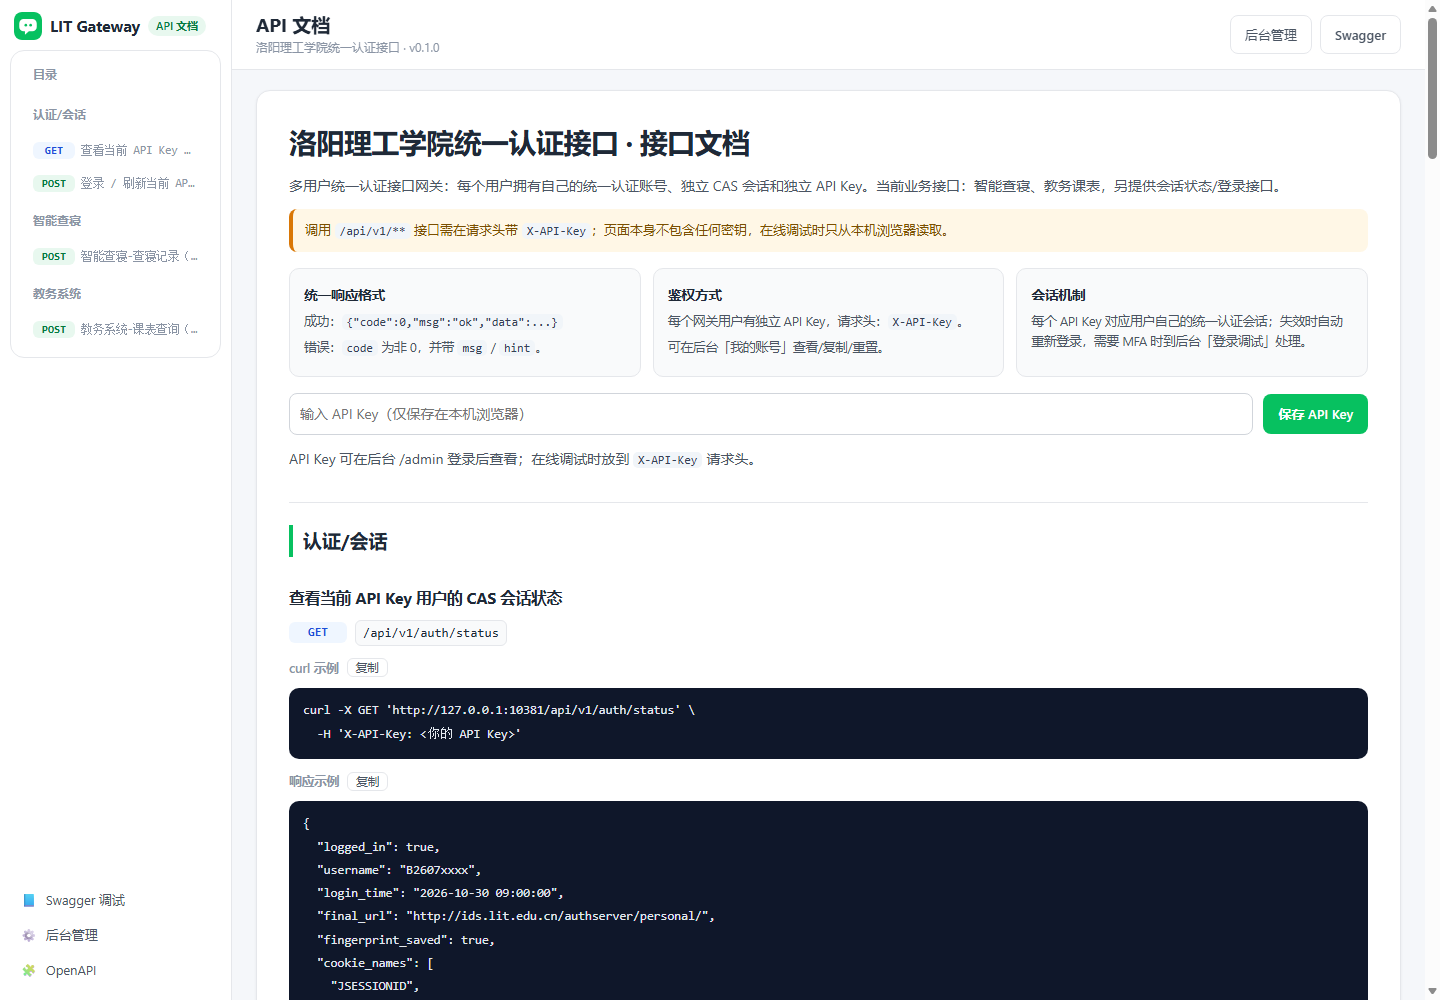
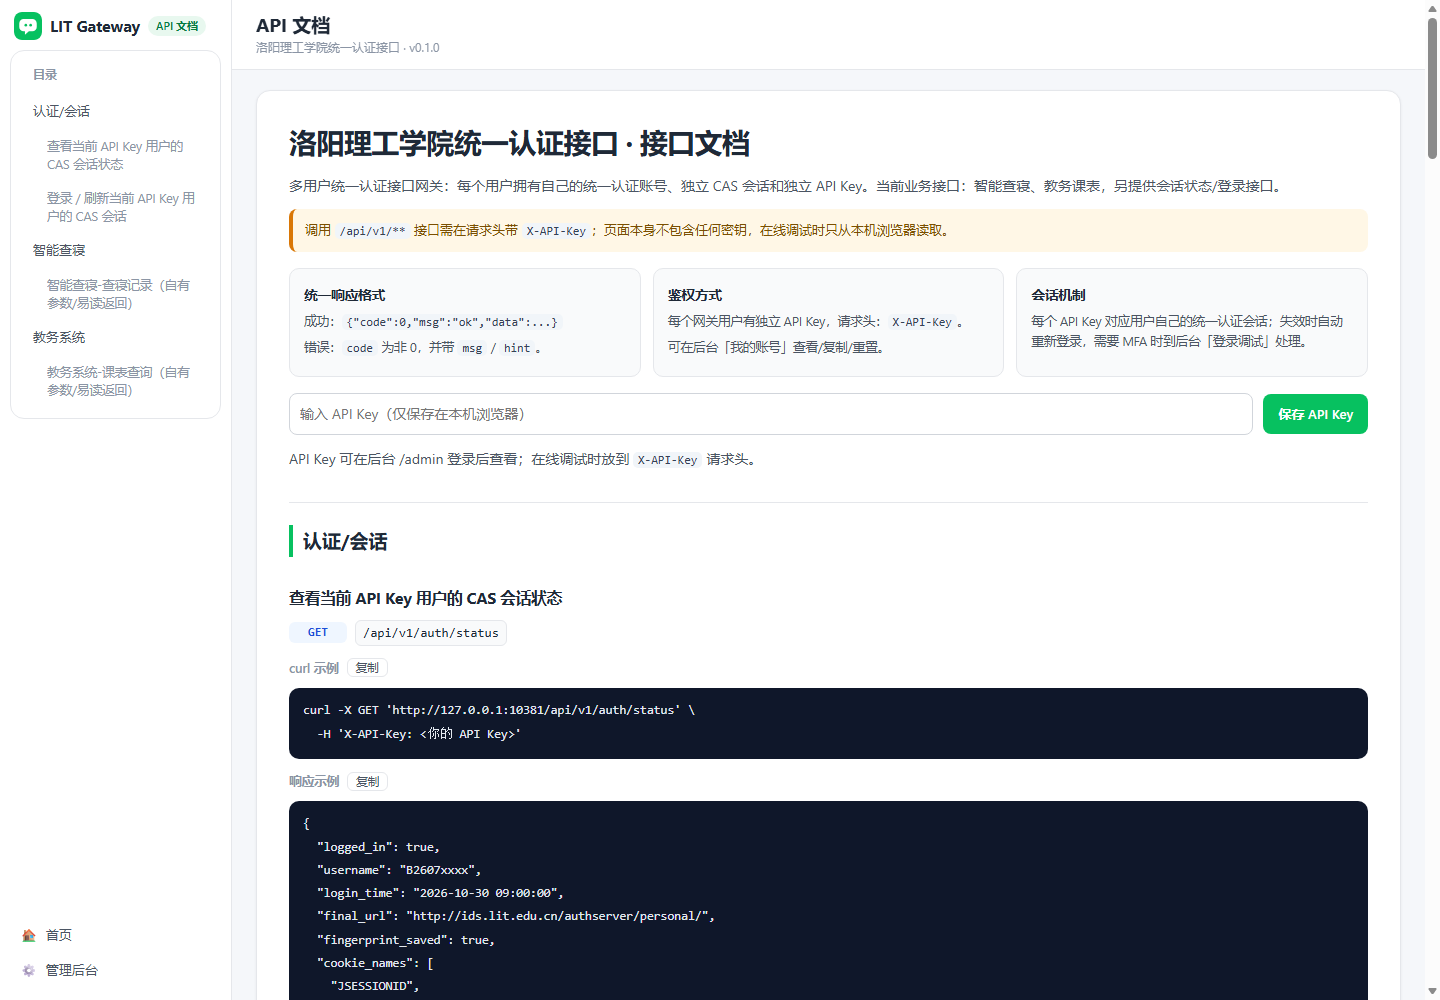
ui: remove redundant header links, simplify docs sidebar like ClawBot, open internal links in same tab

Changed region(s): [[0.0312, 0.093, 0.125, 0.403], [0.0312, 0.899, 0.0938, 0.992], [0.875, 0.031, 0.9688, 0.062]]

diff --git a/app/routers/docs.py b/app/routers/docs.py
@@ -406,16 +406,16 @@ def _render_html(app: Any, request: Request) -> str:
     nav: list[str] = []
     idx = 0
     for group in groups:
-        nav.append(f'<p class="doc-nav-title">{_h(group["tag"])}</p>')
-        cards.append(f'<section class="doc-section" id="g-{idx}">'
+        group_anchor = "g-%d" % idx
+        nav.append(f'<a class="doc-nav-link" href="#{group_anchor}">{_h(group["tag"])}</a>')
+        cards.append(f'<section class="doc-section" id="{group_anchor}">'
                      f'<h2 class="doc-heading">{_h(group["tag"])}</h2>')
         for ep in group["endpoints"]:
             eid = "ep-%d" % idx
             label = ep["summary"] or ep["path"]
             nav.append(
-                f'<a class="doc-nav-link" href="#{eid}" title="{_h(ep["method"] + " " + ep["path"])}">'
-                f'<span class="method method-{ep["method"].lower()}">{ep["method"]}</span> '
-                f'<span class="path">{_h(label)}</span></a>')
+                f'<a class="doc-nav-link doc-nav-sub" href="#{eid}" '
+                f'title="{_h(ep["method"] + " " + ep["path"])}">{_h(label)}</a>')
             cards.append(_render_endpoint(ep, idx, base))
             endpoints_js.append({
                 "id": idx,
@@ -478,6 +478,7 @@ a{color:inherit;text-decoration:none}
 .doc-nav-link:hover{background:#f9fafb;color:var(--text)}
 .doc-nav-link .method{flex:none;min-width:42px;padding:1px 5px;font-size:10.5px}
 .doc-nav-link .path{overflow:hidden;text-overflow:ellipsis;white-space:nowrap;font-family:var(--mono);font-size:11.5px;color:var(--muted)}
+.doc-nav-sub{padding-left:24px;color:var(--muted);font-size:12.5px;overflow:hidden;text-overflow:ellipsis}
 .doc-sidebar-footer{margin-top:auto;padding-top:14px}
 .doc-sidebar-footer .doc-nav-link{font-size:13px;padding:8px 10px}
 .doc-sidebar-footer .doc-nav-link span{margin-right:2px}
@@ -612,9 +613,8 @@ DOCS_TMPL = """<!doctype html>
     __NAV__
   </nav>
   <div class="doc-sidebar-footer">
-    <a class="doc-nav-link" href="/docs" target="_blank"><span aria-hidden="true">📘</span> Swagger 调试</a>
-    <a class="doc-nav-link" href="/admin" target="_blank"><span aria-hidden="true">⚙</span> 后台管理</a>
-    <a class="doc-nav-link" href="/openapi.json" target="_blank"><span aria-hidden="true">🧩</span> OpenAPI</a>
+    <a class="doc-nav-link" href="/"><span aria-hidden="true">🏠</span> 首页</a>
+    <a class="doc-nav-link" href="/admin"><span aria-hidden="true">⚙</span> 管理后台</a>
   </div>
 </aside>
 <div id="docs-nav-overlay" class="docs-nav-overlay" hidden></div>
@@ -622,10 +622,6 @@ DOCS_TMPL = """<!doctype html>
   <header class="docs-topbar">
     <button id="docs-menu-toggle" class="docs-menu-toggle" type="button" aria-label="打开文档目录" aria-controls="docs-nav" aria-expanded="false">☰</button>
     <div class="docs-topbar-title"><strong>API 文档</strong><span>__APP_NAME__ · v__VERSION__</span></div>
-    <div class="docs-topbar-actions">
-      <a class="btn btn-ghost" href="/admin" target="_blank">后台管理</a>
-      <a class="btn btn-ghost" href="/docs" target="_blank">Swagger</a>
-    </div>
   </header>
   <main id="main" class="docs-content">
     <article class="doc-content">
@@ -641,7 +637,7 @@ DOCS_TMPL = """<!doctype html>
         <input id="api-key" class="input" type="password" placeholder="输入 API Key（仅保存在本机浏览器）" autocomplete="off">
         <button class="btn btn-primary" onclick="saveKey()">保存 API Key</button>
       </div>
-      <p id="key-tip" class="doc-lead">API Key 可在后台 <a href="/admin" target="_blank">/admin</a> 登录后查看；在线调试时放到 <code class="code-inline">X-API-Key</code> 请求头。</p>
+      <p id="key-tip" class="doc-lead">API Key 可在后台 <a href="/admin">/admin</a> 登录后查看；在线调试时放到 <code class="code-inline">X-API-Key</code> 请求头。</p>
       __CARDS__
       <section class="doc-section" id="error-codes">
         <h2 class="doc-heading">通用错误码</h2>
@@ -655,7 +651,7 @@ DOCS_TMPL = """<!doctype html>
           </tbody>
         </table></div>
       </section>
-      <footer class="site-footer">接口文档由 OpenAPI 自动生成 · 多用户版 · <a href="/admin" target="_blank">后台管理</a> · <a href="/docs" target="_blank">Swagger</a></footer>
+      <footer class="site-footer">接口文档由 OpenAPI 自动生成 · 多用户版 · <a href="/admin">后台管理</a> · <a href="/docs">Swagger</a></footer>
     </article>
   </main>
 </div>

diff --git a/app/routers/admin.py b/app/routers/admin.py
@@ -634,8 +634,8 @@ _DASHBOARD_TMPL = """<!doctype html>
       <a class="menu-item" data-panel="logs" href="#logs"><span class="menu-icon">📜</span><span class="menu-label">运行日志</span></a>
     </nav>
     <div class="sidebar-footer">
-      <a class="sidebar-link" href="/" target="_blank"><span aria-hidden="true">🌐</span> 接口文档</a>
-      <a class="sidebar-link" href="/docs" target="_blank"><span aria-hidden="true">📘</span> Swagger</a>
+      <a class="sidebar-link" href="/"><span aria-hidden="true">🌐</span> 接口文档</a>
+      <a class="sidebar-link" href="/docs"><span aria-hidden="true">📘</span> Swagger</a>
       <a class="sidebar-link" href="/admin/logout"><span aria-hidden="true">🚪</span> 退出后台</a>
     </div>
   </aside>
@@ -650,8 +650,6 @@ _DASHBOARD_TMPL = """<!doctype html>
       <div class="topbar-actions">
         <span id="who" class="topbar-user"></span>
         <button type="button" class="btn btn-secondary btn-sm" onclick="refresh()">🔄 刷新</button>
-        <a class="btn btn-ghost btn-sm topbar-links" href="/" target="_blank">接口文档</a>
-        <a class="btn btn-ghost btn-sm topbar-links" href="/docs" target="_blank">Swagger</a>
         <a class="btn btn-ghost btn-sm" href="/admin/logout">退出登录</a>
       </div>
     </header>
@@ -864,7 +862,7 @@ _DASHBOARD_TMPL = """<!doctype html>
         <pre id="logs">（日志）</pre>
       </div>
     </section>
-      <footer class="admin-footer">LIT Gateway · 管理后台 · 当前视图每 8 秒自动刷新（页面隐藏时暂停） · <a href="/" target="_blank">接口文档</a> · <a href="/docs" target="_blank">Swagger</a></footer>
+      <footer class="admin-footer">LIT Gateway · 管理后台 · 当前视图每 8 秒自动刷新（页面隐藏时暂停） · <a href="/">接口文档</a> · <a href="/docs">Swagger</a></footer>
     </main>
   </div>
 </div>

diff --git a/tests/test_api.py b/tests/test_api.py
@@ -129,6 +129,8 @@ def test_root_info():
         assert "doc-table" in r.text
         assert "@media(max-width:899px)" in r.text
         assert "__NAV__" not in r.text
+        assert "doc-nav-sub" in r.text
+        assert 'target="_blank"' not in r.text
         # 页面不允许泄露任何密钥
         assert "test-key" not in r.text
         assert "test-admin" not in r.text

diff --git a/tests/test_admin.py b/tests/test_admin.py
@@ -233,6 +233,7 @@ def test_admin_mobile_css_and_table_wrap():
         assert "admin-topbar-bar" in html
         assert "stats-grid" in html
         assert "page-admin" in html
+        assert 'target="_blank"' not in html
 
 
 def test_admin_schedule_selftest():
